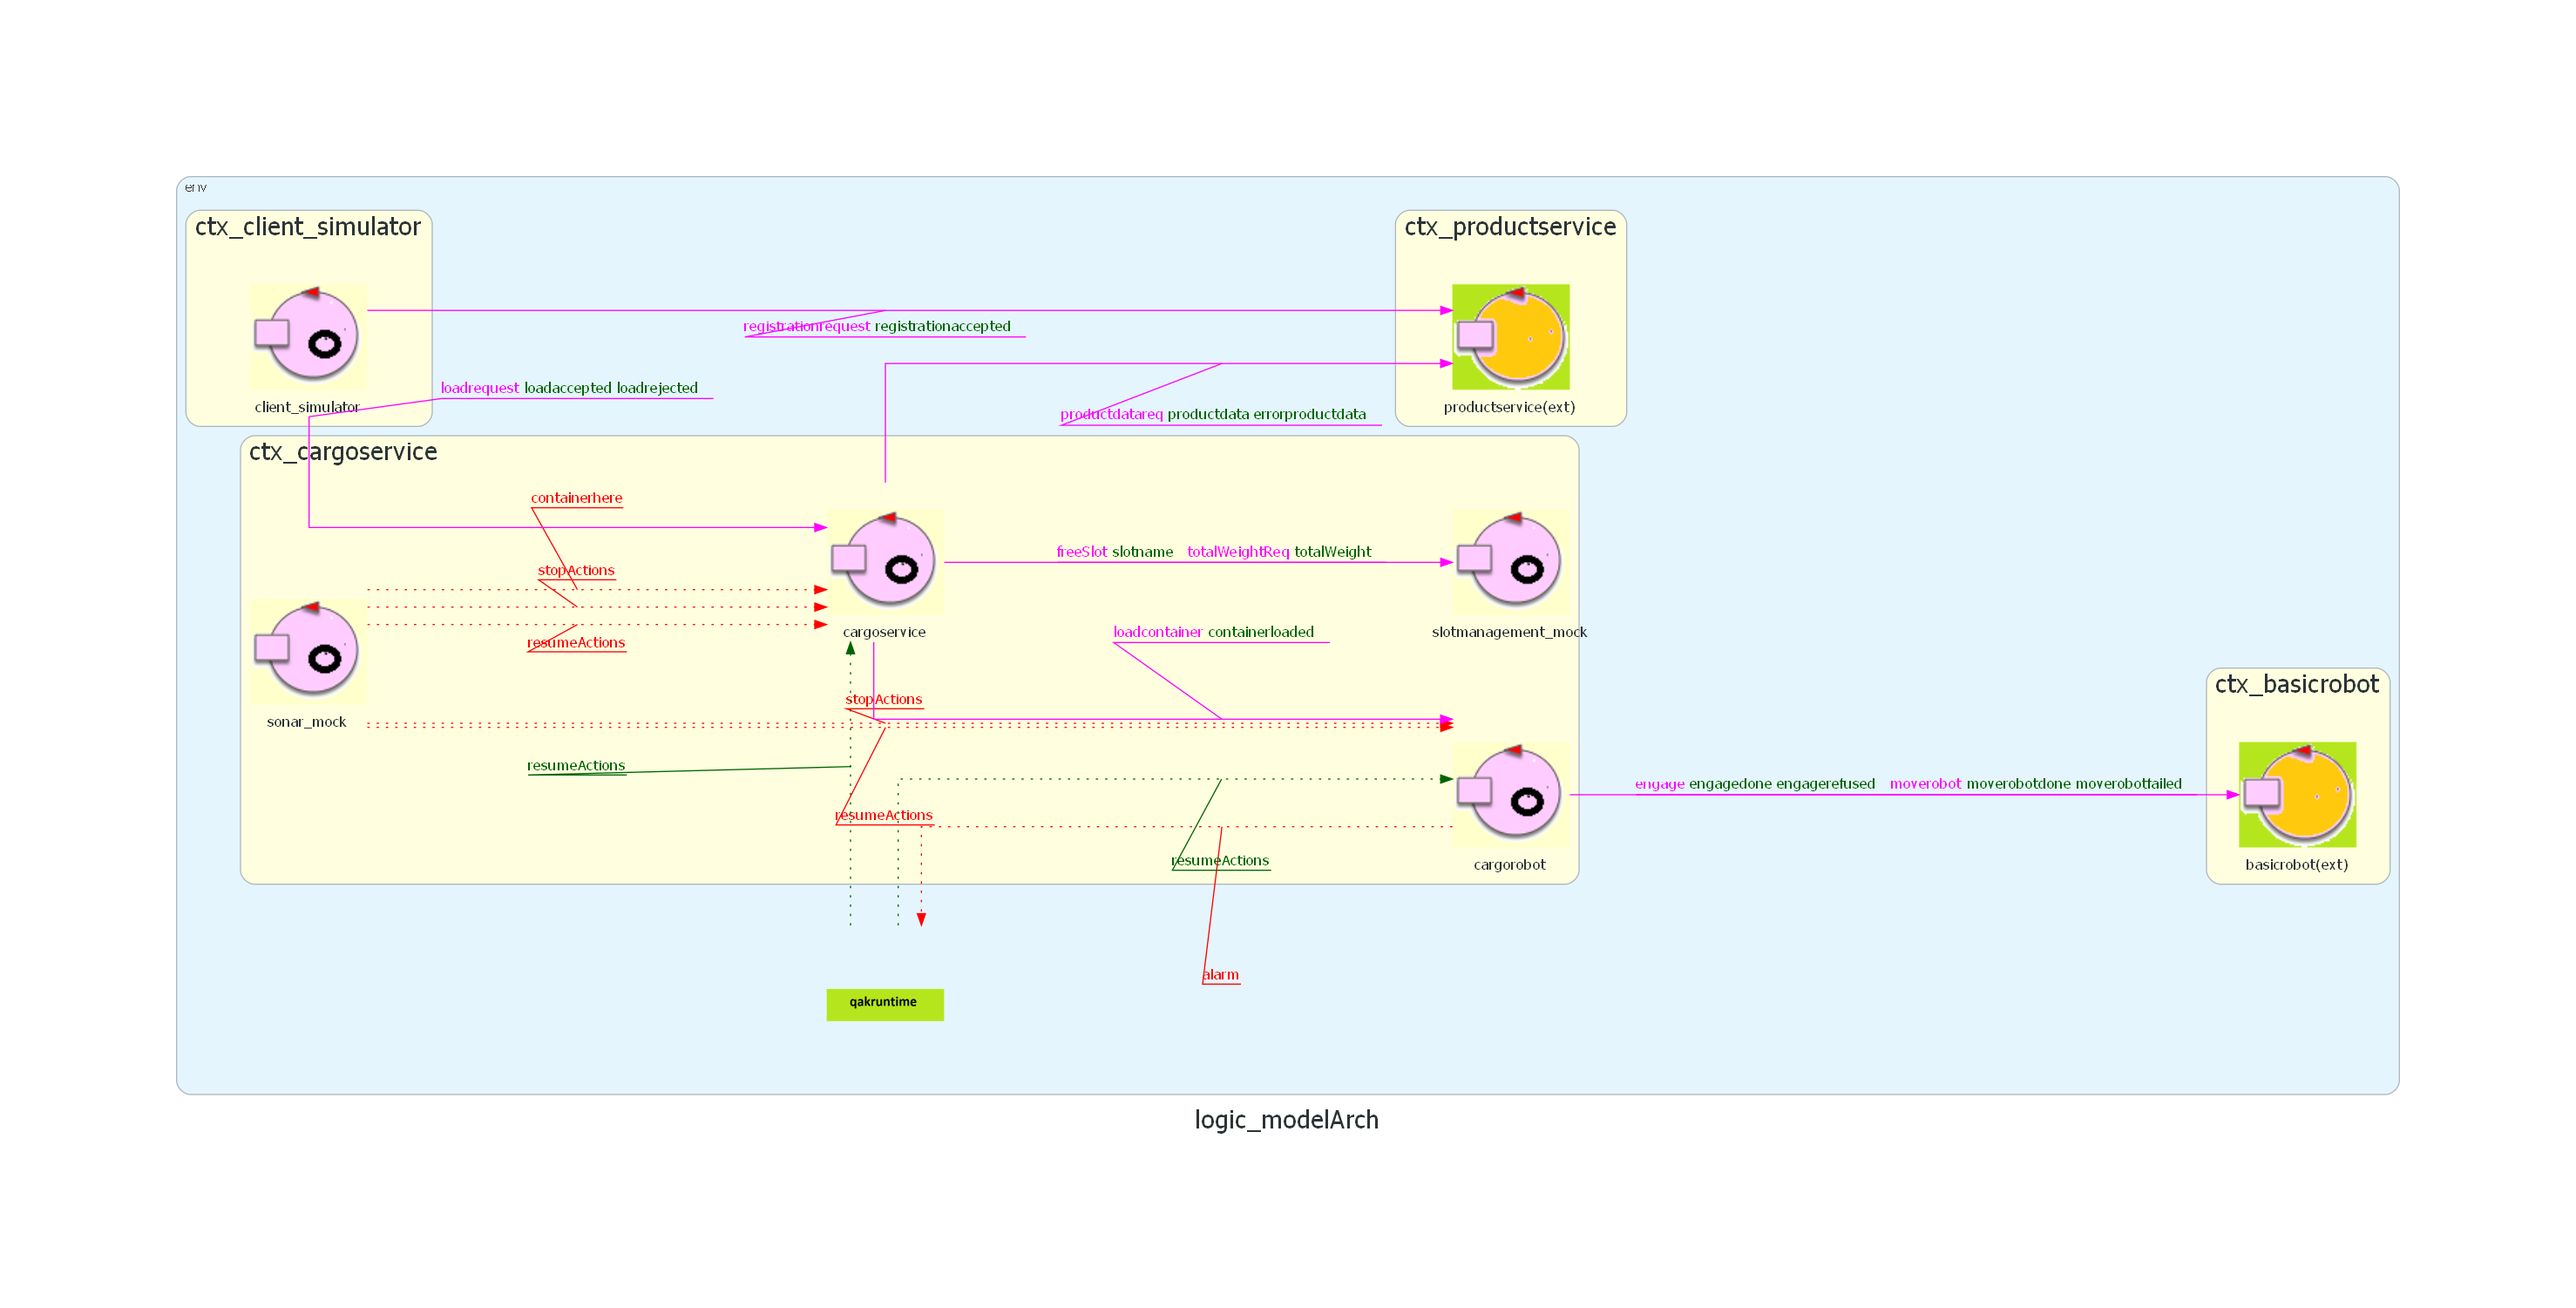
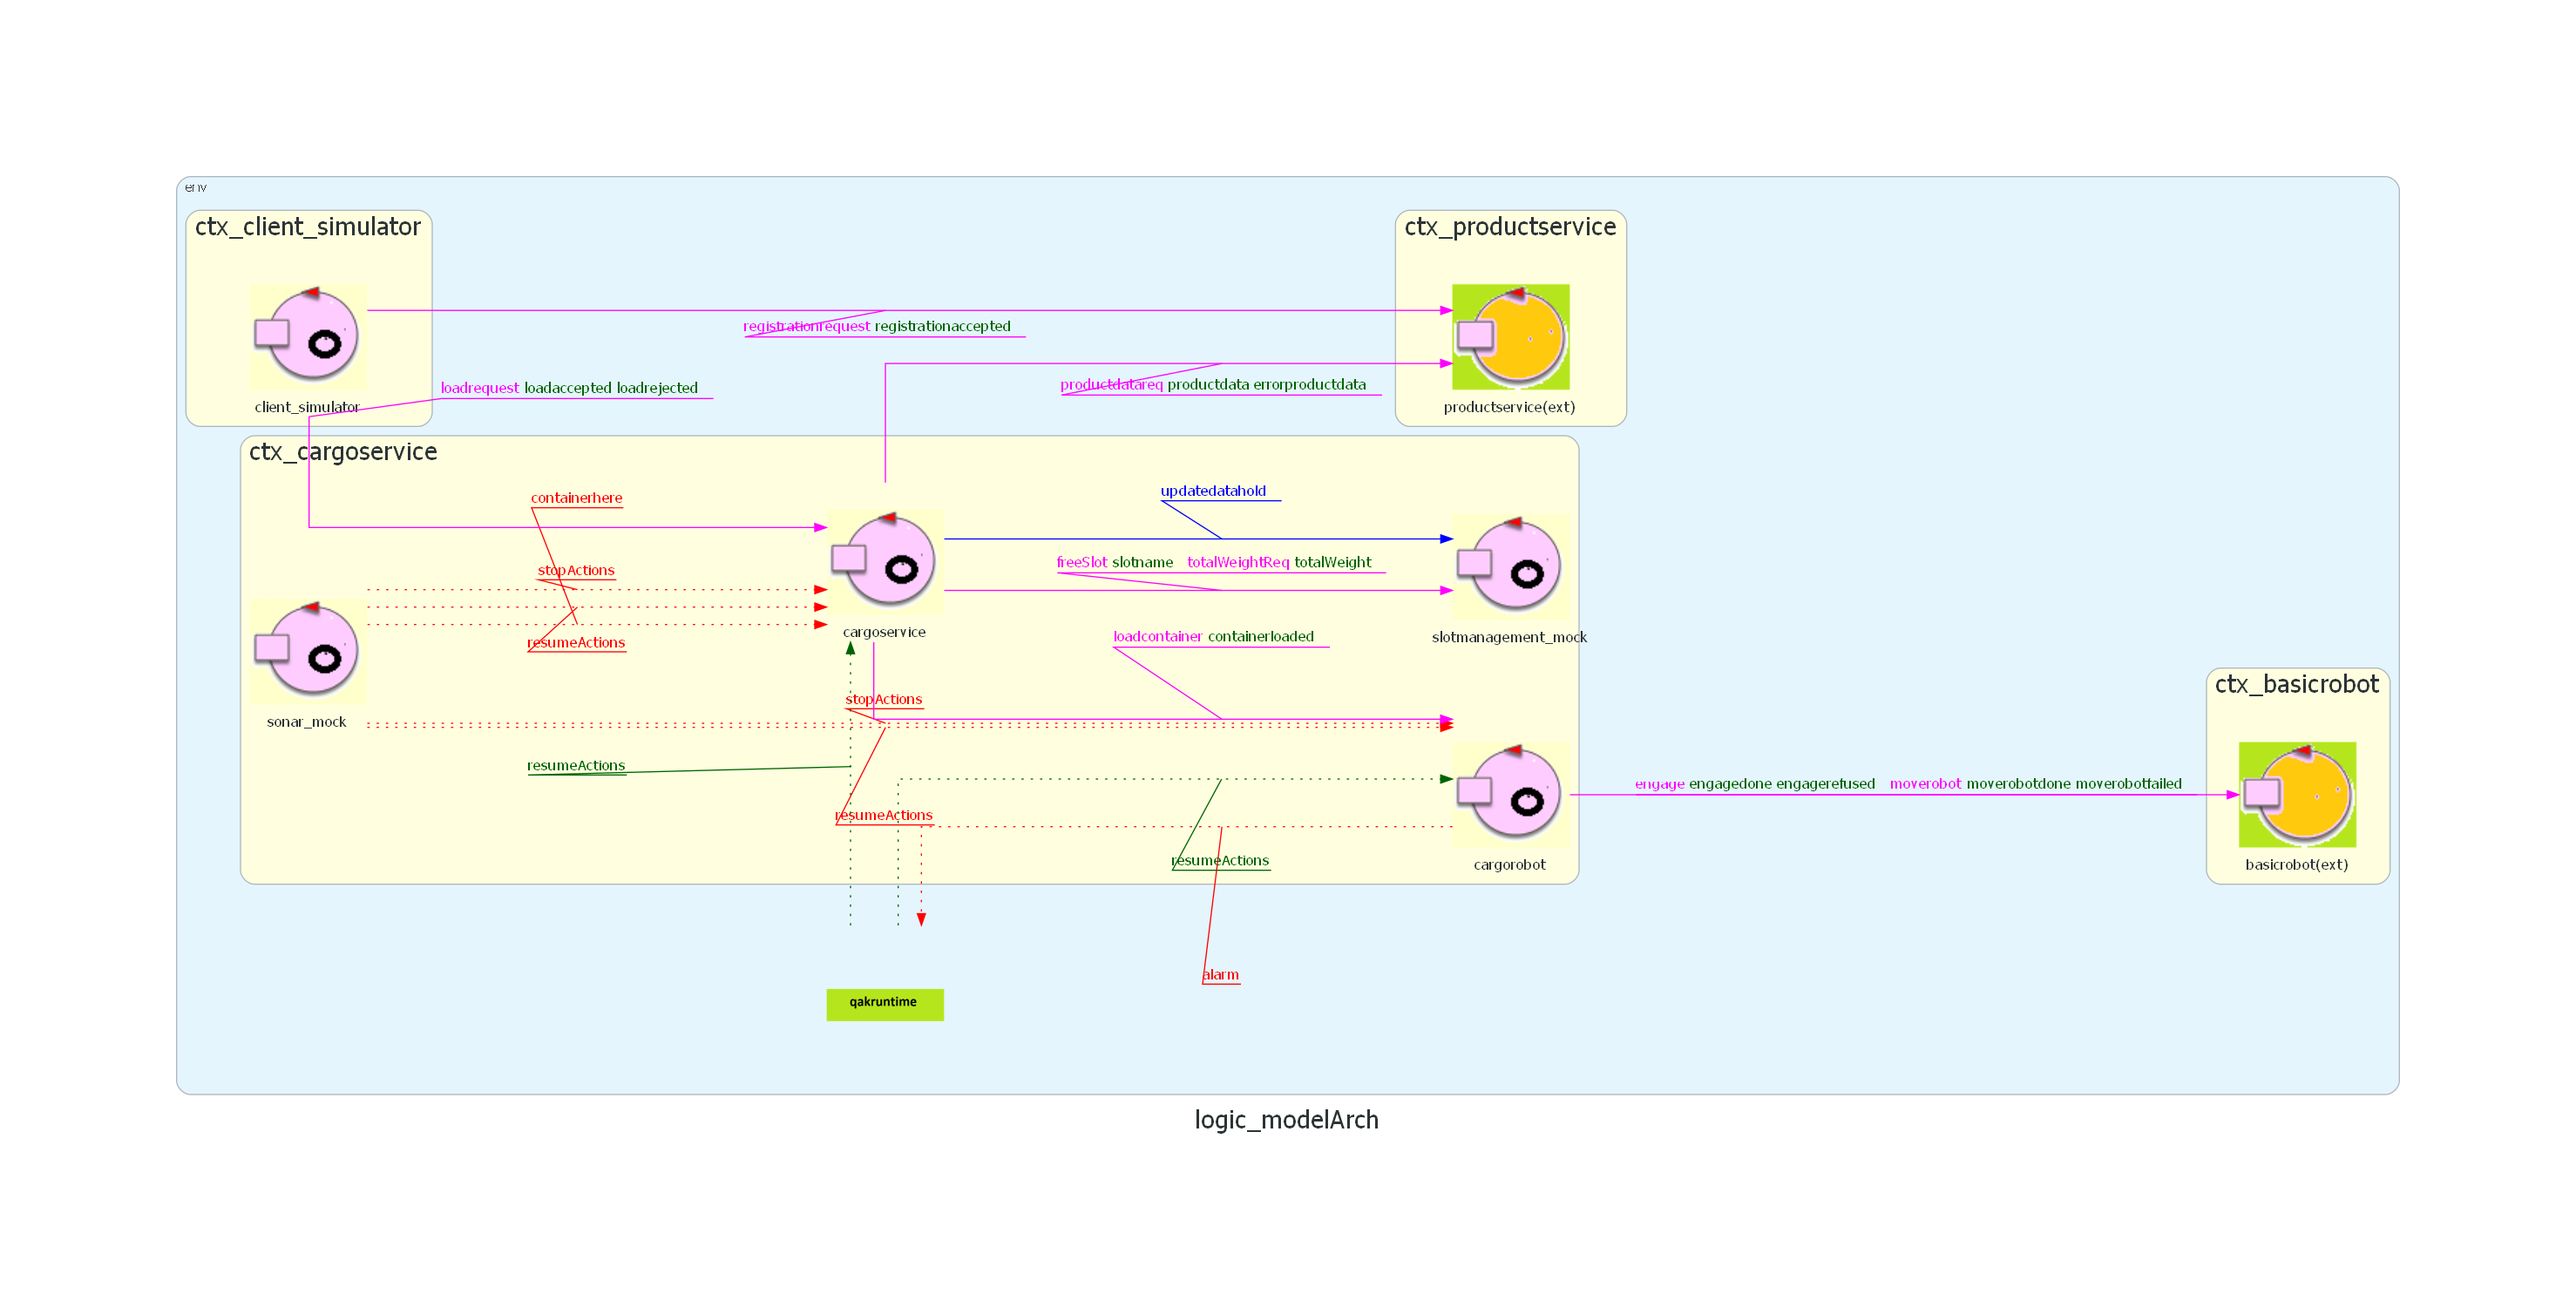
update logicModel

Changed region(s): [[0.3735, 0.3678, 0.6225, 0.521], [0.4046, 0.2758, 0.5291, 0.3371]]

diff --git a/Sprint1/logicModel/src/it/unibo/cargoservice/Cargoservice.kt b/Sprint1/logicModel/src/it/unibo/cargoservice/Cargoservice.kt
@@ -156,8 +156,18 @@ class Cargoservice ( name: String, scope: CoroutineScope, isconfined: Boolean=fa
 					//After Lenzi Aug2002
 					sysaction { //it:State
 					}	 	 
-					 transition(edgeName="t219",targetState="state_idle",cond=whenReply("containerloaded"))
+					 transition(edgeName="t219",targetState="state_update_hold",cond=whenReply("containerloaded"))
 					interrupthandle(edgeName="t220",targetState="state_handle_stop",cond=whenEvent("stopActions"),interruptedStateTransitions)
+				}	 
+				state("state_update_hold") { //this:State
+					action { //it:State
+						forward("updatedatahold", "updatedatahold(M)" ,"slotmanagement_mock" ) 
+						//genTimer( actor, state )
+					}
+					//After Lenzi Aug2002
+					sysaction { //it:State
+					}	 	 
+					 transition( edgeName="goto",targetState="state_idle", cond=doswitch() )
 				}	 
 			}
 		}

diff --git a/Sprint1/logicModel/Arch_logic_model.py b/Sprint1/logicModel/Arch_logic_model.py
@@ -50,4 +50,5 @@ with Diagram('logic_modelArch', show=False, outformat='png', graph_attr=graphatt
      cargoservice >> Edge(color='magenta', style='solid', decorate='true', label='<productdatareq<font color="darkgreen"> productdata errorproductdata</font> &nbsp; >',  fontcolor='magenta') >> productservice
      cargoservice >> Edge(color='magenta', style='solid', decorate='true', label='<freeSlot<font color="darkgreen"> slotname</font> &nbsp; totalWeightReq<font color="darkgreen"> totalWeight</font> &nbsp; >',  fontcolor='magenta') >> slotmanagement_mock
      cargoservice >> Edge(color='magenta', style='solid', decorate='true', label='<loadcontainer<font color="darkgreen"> containerloaded</font> &nbsp; >',  fontcolor='magenta') >> cargorobot
+     cargoservice >> Edge(color='blue', style='solid',  decorate='true', label='<updatedatahold &nbsp; >',  fontcolor='blue') >> slotmanagement_mock
 diag
